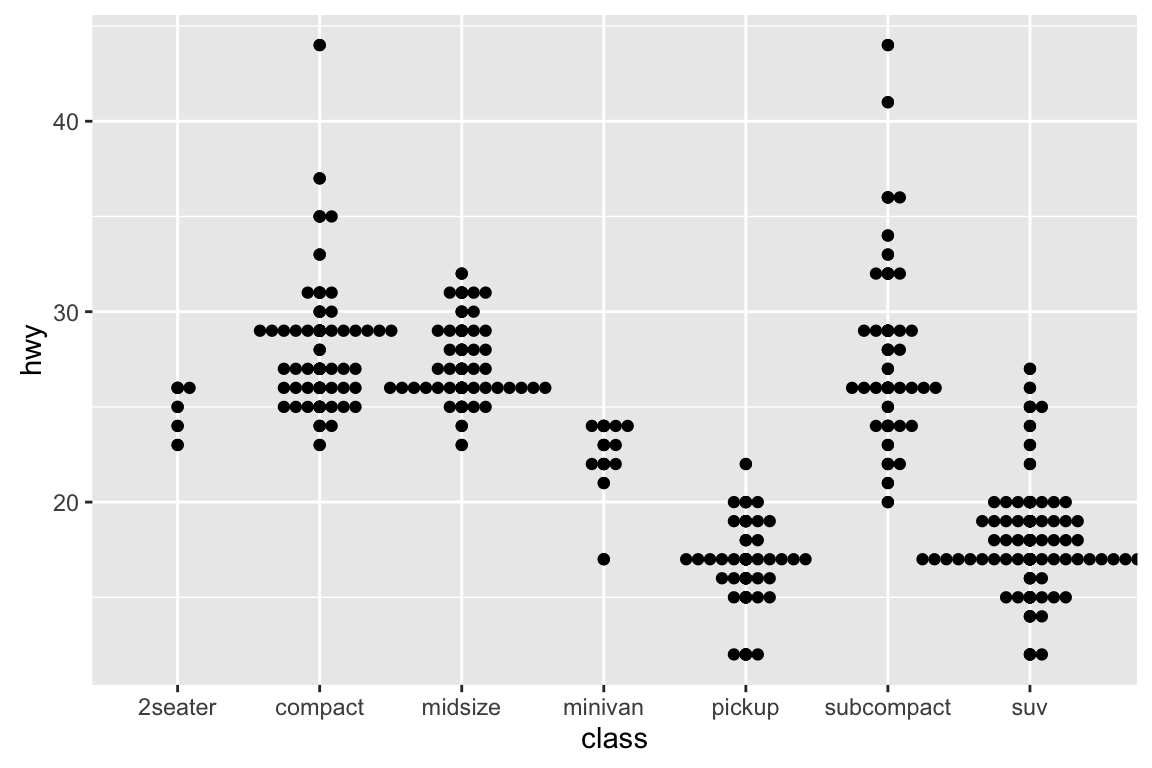
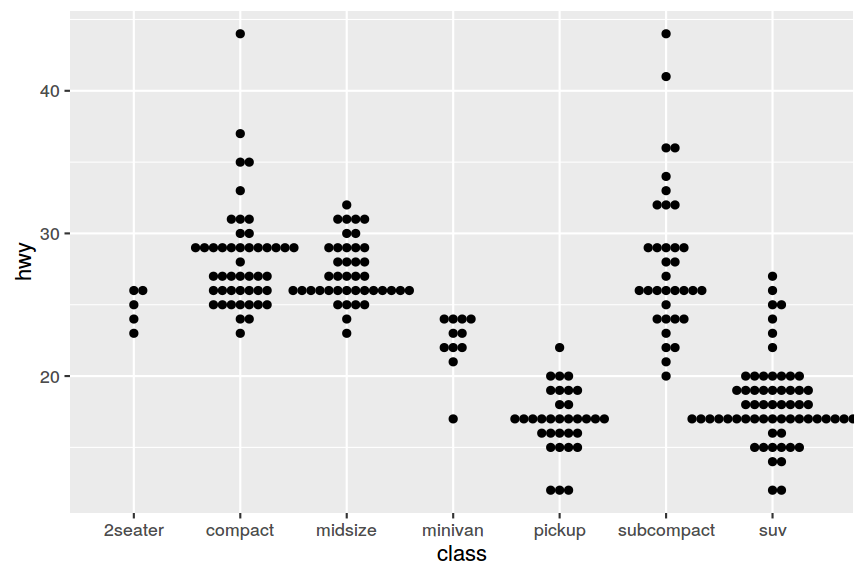
Move qplot to ggplot

diff --git a/README.md b/README.md
@@ -37,30 +37,30 @@ Using `geom_quasirandom`:
 set.seed(12345)
 library(ggplot2)
 library(ggbeeswarm)
-qplot(Species, Sepal.Length, data=iris) + geom_quasirandom()
+ggplot(iris,aes(Species, Sepal.Length)) + geom_quasirandom()
 ```
 
-<img src="README_files/figure-html/ggplot2-examples-1.png" title="" alt="" width="576" />
+<img src="README_files/figure-html/ggplot2-examples-1.png" title="plot of chunk ggplot2-examples" alt="plot of chunk ggplot2-examples" width="432" />
 
 ```r
-qplot(class, hwy, data=mpg, geom="quasirandom")
+ggplot(mpg,aes(class, hwy), geom="quasirandom")
 ```
 
-<img src="README_files/figure-html/ggplot2-examples-2.png" title="" alt="" width="576" />
+<img src="README_files/figure-html/ggplot2-examples-2.png" title="plot of chunk ggplot2-examples" alt="plot of chunk ggplot2-examples" width="432" />
 
 ```r
 # With categorical y-axis
-qplot(hwy, class, data=mpg, geom='quasirandom')
+ggplot(mpg,aes(hwy, class), geom='quasirandom')
 ```
 
-<img src="README_files/figure-html/ggplot2-examples-3.png" title="" alt="" width="576" />
+<img src="README_files/figure-html/ggplot2-examples-3.png" title="plot of chunk ggplot2-examples" alt="plot of chunk ggplot2-examples" width="432" />
 
 ```r
 # Some groups may have only a few points. Use `varwidth=TRUE` to adjust width dynamically.
-qplot(class, hwy, data=mpg) + geom_quasirandom(varwidth = TRUE)
+ggplot(mpg,aes(class, hwy)) + geom_quasirandom(varwidth = TRUE)
 ```
 
-<img src="README_files/figure-html/ggplot2-examples-4.png" title="" alt="" width="576" />
+<img src="README_files/figure-html/ggplot2-examples-4.png" title="plot of chunk ggplot2-examples" alt="plot of chunk ggplot2-examples" width="432" />
 
 ```r
 # Automatic dodging
@@ -68,52 +68,52 @@ sub_mpg <- mpg[mpg$class %in% c("midsize", "pickup", "suv"),]
 ggplot(sub_mpg, aes(class, displ, color=factor(cyl))) + geom_quasirandom(dodge.width=1)
 ```
 
-<img src="README_files/figure-html/ggplot2-examples-5.png" title="" alt="" width="576" />
+<img src="README_files/figure-html/ggplot2-examples-5.png" title="plot of chunk ggplot2-examples" alt="plot of chunk ggplot2-examples" width="432" />
 
 ### geom_beeswarm()
 
 Using `geom_beeswarm`:
 
 ```r
-qplot(Species, Sepal.Length, data=iris) + geom_beeswarm()
+ggplot(iris,aes(Species, Sepal.Length)) + geom_beeswarm()
 ```
 
-<img src="README_files/figure-html/ggplot2-beeswarm-1.png" title="" alt="" width="576" />
+<img src="README_files/figure-html/ggplot2-beeswarm-1.png" title="plot of chunk ggplot2-beeswarm" alt="plot of chunk ggplot2-beeswarm" width="432" />
 
 ```r
-qplot(class, hwy, data=mpg, geom='beeswarm')
+ggplot(mpg,aes(class, hwy), geom='beeswarm')
 ```
 
-<img src="README_files/figure-html/ggplot2-beeswarm-2.png" title="" alt="" width="576" />
+<img src="README_files/figure-html/ggplot2-beeswarm-2.png" title="plot of chunk ggplot2-beeswarm" alt="plot of chunk ggplot2-beeswarm" width="432" />
 
 ```r
 # With categorical y-axis
-qplot(hwy, class, data=mpg, geom='beeswarm')
+ggplot(mpg,aes(hwy, class), geom='beeswarm')
 ```
 
-<img src="README_files/figure-html/ggplot2-beeswarm-3.png" title="" alt="" width="576" />
+<img src="README_files/figure-html/ggplot2-beeswarm-3.png" title="plot of chunk ggplot2-beeswarm" alt="plot of chunk ggplot2-beeswarm" width="432" />
 
 ```r
 # ggplot doesn't pass any information about the actual device size of the points
 # to the underlying layout code, so it's important to manually adjust the `cex` 
 # parameter for best results
-qplot(class, hwy, data=mpg) + geom_beeswarm(cex=5)
+ggplot(mpg,aes(class, hwy)) + geom_beeswarm(cex=5)
 ```
 
-<img src="README_files/figure-html/ggplot2-beeswarm-4.png" title="" alt="" width="576" />
+<img src="README_files/figure-html/ggplot2-beeswarm-4.png" title="plot of chunk ggplot2-beeswarm" alt="plot of chunk ggplot2-beeswarm" width="432" />
 
 ```r
-qplot(Species, Sepal.Length, data=iris) + geom_beeswarm(cex=4,priority='density')
+ggplot(iris,aes(Species, Sepal.Length)) + geom_beeswarm(cex=4,priority='density')
 ```
 
-<img src="README_files/figure-html/ggplot2-beeswarm-5.png" title="" alt="" width="576" />
+<img src="README_files/figure-html/ggplot2-beeswarm-5.png" title="plot of chunk ggplot2-beeswarm" alt="plot of chunk ggplot2-beeswarm" width="432" />
 
 ```r
 # With automatic dodging
 ggplot(sub_mpg, aes(class, displ, color=factor(cyl))) + geom_beeswarm(dodge.width=0.7, cex=4)
 ```
 
-<img src="README_files/figure-html/ggplot2-beeswarm-6.png" title="" alt="" width="576" />
+<img src="README_files/figure-html/ggplot2-beeswarm-6.png" title="plot of chunk ggplot2-beeswarm" alt="plot of chunk ggplot2-beeswarm" width="432" />
 
 
 ------
